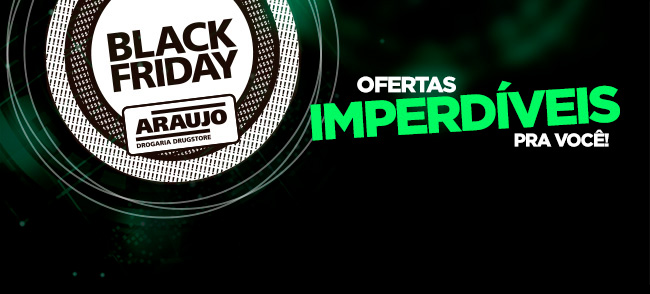
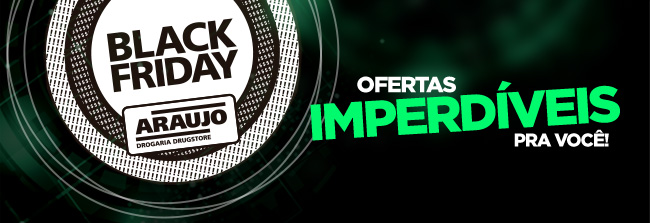
--

diff --git a/buscarid/email-marketing_black_friday_161116.html b/buscarid/email-marketing_black_friday_161116.html
@@ -948,7 +948,7 @@
 	<table width="650" cellpadding="0" cellspacing="0" border="0" align="center">
 		<tr>
 			<td align="center" valign="top" width="650">
-				<img src="https://qd-araujo-email.github.io/buscarid/imagens/201611-dias-beleza/email_marketing_black_friday_161116_bf_01.jpg" width="650" height="294" border="0" alt="Black Friday 2016" title="Black Friday 2016" style="display:block;" />
+				<img src="https://qd-araujo-email.github.io/buscarid/imagens/201611-dias-beleza/email_marketing_black_friday_161116_bf_01.jpg" width="650" height="233" border="0" alt="Black Friday 2016" title="Black Friday 2016" style="display:block;" />
 			</td>
 		</tr>
 	</table>
